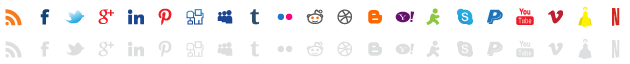
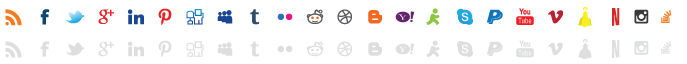
Version 3.0.1 Added with Instagram and Stackoverflow.
git-svn-id: https://plugins.svn.wordpress.org/wens-social-links/trunk@1022405 b8457f37-d9ea-0310-8a92-e5e31aec5664

diff --git a/css/main-style.css b/css/main-style.css
@@ -106,6 +106,14 @@
 .wen-side-socials ul li a.wen-side-netflix {background-position: -601px -32px;}
 .wen-side-socials ul li a.wen-side-netflix:hover {background-position: -601px 0px ;}
 
+/*Instagram link*/
+.wen-side-socials ul li a.wen-side-instagram {background-position: -630px -30px;}
+.wen-side-socials ul li a.wen-side-instagram:hover {background-position: -630px 0px ;}
+
+/*Stackoverflow link*/
+.wen-side-socials ul li a.wen-side-stackoverflow {background-position: -660px -30px;}
+.wen-side-socials ul li a.wen-side-stackoverflow:hover {background-position: -660px 0px ;}
+
 
 
 

diff --git a/functions.php b/functions.php
@@ -24,26 +24,28 @@
 				$tooltip = '';
 			}			
 
-			$rss 		=	esc_url($options['rsslink']);
-			$facebook 	=	esc_url($options['facebooklink']);
-			$twitter 	=	esc_url($options['twitterlink']);
-			$gplus 		=	esc_url($options['gpluslink']);
-			$linkedin 	=	esc_url($options['linkedinlink']);
-			$pinterest 	=	esc_url($options['pinterestlink']);
-			$digg 		=	esc_url($options['digglink']);
-			$myspace 	=	esc_url($options['myspacelink']);
-			$tumblr 	=	esc_url($options['tumblrlink']);
-			$flickr 	=	esc_url($options['flickrlink']);
-			$reddit 	=	esc_url($options['redditlink']);
-			$dribbble 	=	esc_url($options['dribbblelink']);
-			$blogger 	=	esc_url($options['bloggerlink']);		
-			$yahoo 		=	esc_url($options['yahoolink']);	
-			$skype 		=	esc_url($options['skypelink']);
-			$paypal 	=	esc_url($options['paypallink']);
-			$youtube 	=	esc_url($options['youtubelink']);
-			$vimeo 		=	esc_url($options['vimeolink']);
-			$dailymotion=	esc_url($options['dailymotionlink']);
-			$netflix	=	esc_url($options['netflixlink']);
+			$rss 			=	esc_url($options['rsslink']);
+			$facebook 		=	esc_url($options['facebooklink']);
+			$twitter 		=	esc_url($options['twitterlink']);
+			$gplus 			=	esc_url($options['gpluslink']);
+			$linkedin 		=	esc_url($options['linkedinlink']);
+			$pinterest 		=	esc_url($options['pinterestlink']);
+			$instagram 		=	esc_url($options['instagramlink']);
+			$digg 			=	esc_url($options['digglink']);
+			$myspace 		=	esc_url($options['myspacelink']);
+			$tumblr 		=	esc_url($options['tumblrlink']);
+			$flickr 		=	esc_url($options['flickrlink']);
+			$reddit 		=	esc_url($options['redditlink']);
+			$dribbble 		=	esc_url($options['dribbblelink']);
+			$blogger 		=	esc_url($options['bloggerlink']);	
+			$stackoverflow 	=	esc_url($options['stackoverflowlink']);	
+			$yahoo 			=	esc_url($options['yahoolink']);	
+			$skype 			=	esc_url($options['skypelink']);
+			$paypal 		=	esc_url($options['paypallink']);
+			$youtube 		=	esc_url($options['youtubelink']);
+			$vimeo 			=	esc_url($options['vimeolink']);
+			$dailymotion 	=	esc_url($options['dailymotionlink']);
+			$netflix		=	esc_url($options['netflixlink']);
 			?>
 	       
 	        <div class="wen-side-socials">
@@ -74,6 +76,9 @@
 	                 <?php if(!empty($pinterest)){ ?> 
 	            		<li><a class="wen-side-pinterest" href="<?php echo $pinterest; ?>" target="_blank" <?php if ( !empty($tooltip) ): echo 'title="pinterest"'; endif; ?>>PINTEREST</a></li>
 	                 <?php } ?>
+                      <?php if(!empty($instagram)){ ?> 
+                 		<li><a class="wen-side-instagram" href="<?php echo $instagram; ?>" target="_blank" <?php if ( !empty($tooltip) ): echo 'title="instagram"'; endif; ?>>INSTAGRAM</a></li>
+                      <?php } ?>
 	                 <?php if(!empty($digg)){ ?> 
 	            		<li><a class="wen-side-digg" href="<?php echo $digg; ?>" target="_blank" <?php if ( !empty($tooltip) ): echo 'title="digg"'; endif; ?>>DIGG</a></li>
 	                 <?php } ?>
@@ -94,6 +99,9 @@
 	                 <?php } ?>
 	                 <?php if(!empty($blogger)){ ?> 
 	            		<li><a class="wen-side-blogger" href="<?php echo $blogger; ?>" target="_blank" <?php if ( !empty($tooltip) ): echo 'title="blogger"'; endif; ?>>BLOGGER</a></li>
+	                 <?php } ?>
+	                 <?php if(!empty($stackoverflow)){ ?> 
+	            		<li><a class="wen-side-stackoverflow" href="<?php echo $stackoverflow; ?>" target="_blank" <?php if ( !empty($tooltip) ): echo 'title="stackoverflow"'; endif; ?>>STACKOVERFLOW</a></li>
 	                 <?php } ?>
 	                 <?php if(!empty($yahoo)){ ?> 
 	            		<li><a class="wen-side-yahoo" href="<?php echo $yahoo; ?>" target="_blank" <?php if ( !empty($tooltip) ): echo 'title="yahoo"'; endif; ?>>YAHOO</a></li>

diff --git a/social-links.php b/social-links.php
@@ -1,16 +1,16 @@
 <?php
 /*
  * Plugin Name: WEN's Social Links
- * Version: 2.1.1
+ * Version: 3.0.1
  * Plugin URI: http://wordpress.org/plugins/wens-social-links/
- * Description: Plugin to link 20 social networking sites to your WordPress Site.
+ * Description: Plugin to link 22 social networking sites to your WordPress Site.
  * Author: Manesh Timilsina
  * Author URI: http://manesh.com.np
  * License: GNU/GPL http://www.gnu.org/copyleft/gpl.html
  */
 
 define('PLUGIN_NAME', 'WEN Social Links');
-define('PLUGIN_VERSION', '2.0.0');
+define('PLUGIN_VERSION', '3.0.1');
 
 add_action('wp_enqueue_scripts', 'wen_enque_scripts');
 
@@ -20,7 +20,7 @@ function wen_enque_scripts() {
  
     wp_enqueue_script('jquery');
 
-    wp_enqueue_script('jquery-ui', 'http://code.jquery.com/ui/1.10.3/jquery-ui.js');               
+    wp_enqueue_script('jquery-ui-tooltip');               
 
     wp_enqueue_script('SC_custom', plugins_url( '/js/custom.js' , __FILE__ ));
 

diff --git a/options.php b/options.php
@@ -42,6 +42,11 @@
                 "type" => "text",
                 "std" => ""),
 
+        array("name" => __('Instagram','WEN'),        
+                "id" => "instagramlink",
+                "type" => "text",
+                "std" => ""),
+
         array("name" => __('Digg','WEN'),        
                 "id" => "digglink",
                 "type" => "text",
@@ -80,6 +85,11 @@
 
         array("name" => __('Blogger','WEN'),        
                 "id" => "bloggerlink",
+                "type" => "text",
+                "std" => ""),
+
+        array("name" => __('Stackoverflow','WEN'),        
+                "id" => "stackoverflowlink",
                 "type" => "text",
                 "std" => ""),
 
